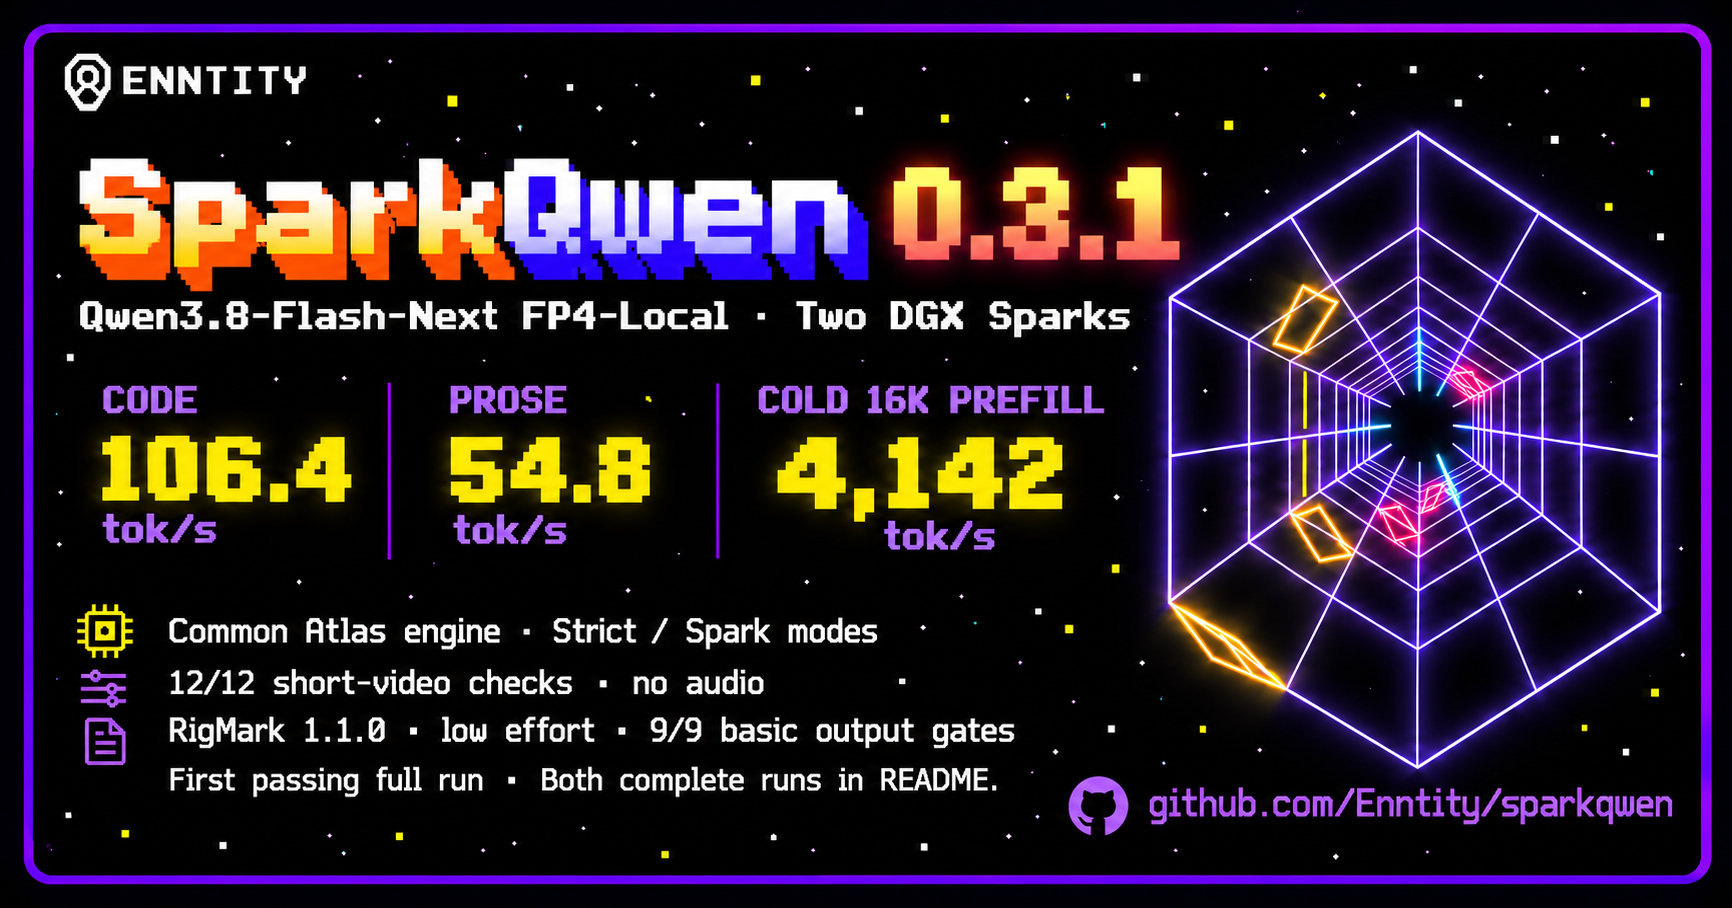
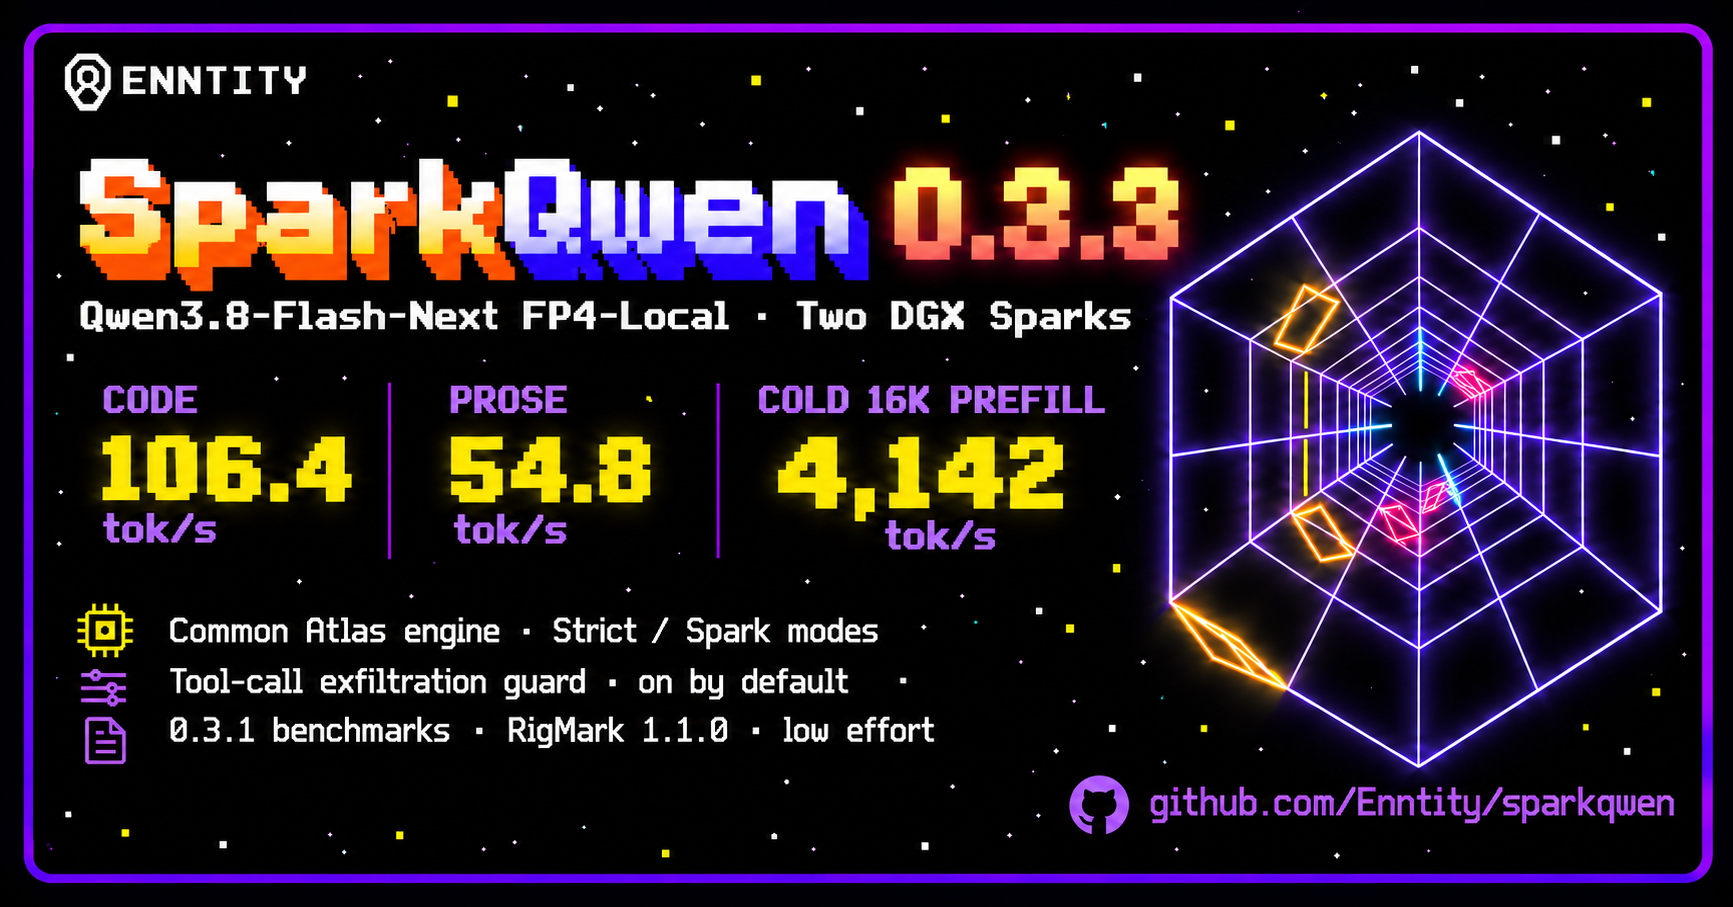
docs: refresh 0.3.3 release cards with tool-call guard (#29)

diff --git a/docs/assets/PROMPTS.md b/docs/assets/PROMPTS.md
@@ -1,12 +1,13 @@
 <!-- SPDX-License-Identifier: AGPL-3.0-only -->
 # Card prompts
 
-Generated with the built-in image tool; outputs were visually checked.
+Updated for 0.3.3 with the built-in image tool on 2026-10-26. Each existing
+0.3.1 card was supplied as its own edit target. Outputs were visually checked.
 
 ## Banner
 
-Use case: text-localization. Edit target: the supplied SparkQwen release banner. Update it for SparkQwen 0.3.1 with newly measured benchmark figures, preserving the 3:1 wide composition, arcade pixel lettering, ENNTITY logo, purple frame, black starfield, wireframe tunnel on right, orange Spark/purple Qwen title colors, and three unboxed metric columns. Use crisp legible typography at 2172x724 or equivalent 3:1 resolution. Change the title to "SparkQwen 0.3.1". Keep subtitle "Qwen3.8-Flash-Next FP4-Local · Two DGX Sparks". Exact metric columns: "CODE" / "106.4" / "tok/s"; "PROSE" / "54.8" / "tok/s"; "COLD 16K PREFILL" / "4,142" / "tok/s". Replace all bottom supporting copy with these exact lines, fitting clearly without overlap: "Common Atlas engine · Strict / Spark modes"; "12/12 short-video checks · no audio"; "RigMark 1.1.0 · low effort · 9/9 basic output gates"; small footer "First passing full run · Both complete runs in README". Keep right-side URL "github.com/Enntity/sparkqwen". Remove old historical percentage/speedup claims and all old version/benchmark numbers. No extra text or metric boxes.
+Use case: text-localization. Image 1 is the edit target. Preserve its existing purple arcade border, black starfield, ENNTITY logo, pixel typography, orange Spark/purple Qwen lettering, neon wireframe tunnel on the right, three unboxed metric columns, palette and layout. Make only these text edits: change title to "SparkQwen 0.3.3"; replace "12/12 short-video checks · no audio" with exactly "Tool-call exfiltration guard · on by default"; replace the RigMark line with exactly "0.3.1 benchmarks · RigMark 1.1.0 · low effort"; completely remove the entire footer line "First passing full run · Both complete runs in README." and leave its space empty. Keep subtitle exactly "Qwen3.8-Flash-Next FP4-Local · Two DGX Sparks", metric columns CODE / 106.4 / tok/s, PROSE / 54.8 / tok/s, COLD 16K PREFILL / 4,142 / tok/s; supporting line "Common Atlas engine · Strict / Spark modes"; URL "github.com/Enntity/sparkqwen". Keep all copy crisp and legible, no new badges, boxes, decorative objects or extra text. Fewer lines and breathing room, never more crowded. Preserve the existing row icons. All text must be verbatim. Output the wide README hero at the original approximately 3:1 aspect ratio, 2172x724 or equivalent.
 
 ## Social preview
 
-Use case: text-localization. Adapt this approved SparkQwen 0.3.1 banner into a matching GitHub social preview card with aspect ratio 1.91:1, approximately 1536x804. Preserve the exact purple/black arcade visual identity, ENNTITY logo, pixel title and wireframe tunnel. Reflow the layout to fit the less-wide card, keep generous safe margins and every line legible. No cropping any text. Exact copy: "SparkQwen 0.3.1"; "Qwen3.8-Flash-Next FP4-Local · Two DGX Sparks"; three prominent unboxed columns "CODE" / "106.4" / "tok/s", "PROSE" / "54.8" / "tok/s", "COLD 16K PREFILL" / "4,142" / "tok/s". Supporting lines: "Common Atlas engine · Strict / Spark modes"; "12/12 short-video checks · no audio"; "RigMark 1.1.0 · low effort · 9/9 basic output gates"; "First passing full run · Both complete runs in README"; "github.com/Enntity/sparkqwen". Preserve all exact benchmark values and version. No extra claims or old numbers.
+Use case: text-localization. Image 1 is the edit target. Preserve its existing purple arcade border, black starfield, ENNTITY logo, pixel typography, orange Spark/purple Qwen lettering, neon wireframe tunnel on the right, three unboxed metric columns, palette and layout. Make only these text edits: change title to "SparkQwen 0.3.3"; replace "12/12 short-video checks · no audio" with exactly "Tool-call exfiltration guard · on by default"; replace the RigMark line with exactly "0.3.1 benchmarks · RigMark 1.1.0 · low effort"; completely remove the entire footer line "First passing full run · Both complete runs in README." and leave its space empty. Keep subtitle exactly "Qwen3.8-Flash-Next FP4-Local · Two DGX Sparks", metric columns CODE / 106.4 / tok/s, PROSE / 54.8 / tok/s, COLD 16K PREFILL / 4,142 / tok/s; supporting line "Common Atlas engine · Strict / Spark modes"; URL "github.com/Enntity/sparkqwen". Keep all copy crisp and legible, no new badges, boxes, decorative objects or extra text. Fewer lines and breathing room, never more crowded. Preserve the existing row icons. All text must be verbatim. Output the social preview at the original approximately 1.91:1 aspect ratio, 1728x904 or equivalent. Retain generous safe margins.

diff --git a/docs/assets/README.md b/docs/assets/README.md
@@ -1,21 +1,28 @@
 <!-- SPDX-License-Identifier: AGPL-3.0-only -->
-# SparkQwen 0.3.1 cards
+# SparkQwen 0.3.3 cards
 
 `banner.png` is the README hero. `social-preview.png` is the matching social
 card; `social-preview.jpg` is its same-dimension JPEG export, below 1 MB.
-The built-in image generation tool updated both cards on 2026-10-24.
+The built-in image generation tool updated both cards on 2026-10-26.
 [Exact prompts](PROMPTS.md) preserve their text and layout instructions.
 
-The three prominent figures are the new 0.3.1 medians: code **106.4 tok/s**,
-prose **54.8 tok/s**, cold 16K prefill **4,142 tok/s**. They use the first
-passing complete run of two scheduled runs, with three repetitions per decode
-workload and ten cold/replay pairs. Both complete runs and all repetitions
-are in the [qualification report](../../results/2026-10-24-common-engine/RESULT.md).
+The guard line replaces the short-video line. The old “First passing full
+run” footer is removed to leave more space. “Tool-call exfiltration guard ·
+on by default” describes the enabled feature; it is not a guarantee against
+all exfiltration. See [Tool guard](../TOOL-GUARD.md) for the recognized patterns,
+configuration and limits.
+
+The three prominent figures remain historical **0.3.1** measurements: code
+**106.4 tok/s**, prose **54.8 tok/s**, cold 16K prefill **4,142 tok/s**.
+The cards label their benchmark version explicitly; these are not new 0.3.3
+measurements. They use the first passing complete run of two scheduled runs,
+with three repetitions per decode workload and ten cold/replay pairs.
+Both complete runs and all repetitions are in the
+[qualification report](../../results/2026-10-24-common-engine/RESULT.md).
 
 Both runs pass 9/9 basic output gates; these check completion and shape,
-not semantic code quality. The short-video claim is 12/12 controlled cases,
-with no audio. The README reports the XML formatting failures, paging,
-capacity evidence and limits that the small card cannot enumerate.
+not semantic code quality. The README reports the XML formatting failures,
+paging, capacity evidence and limits that the small card cannot enumerate.
 
 The image generation edit preserved the purple arcade frame, unboxed metric
 columns and wireframe illustration. The social image reflows the same copy.

diff --git a/README.md b/README.md
@@ -1,6 +1,6 @@
 <!-- SPDX-License-Identifier: AGPL-3.0-only -->
 <p align="center">
-  <img src="docs/assets/banner.png" alt="Historical SparkQwen 0.3.1 measurements: code 106.4 tok/s, prose 54.8 tok/s, cold 16K prefill 4,142 tok/s; common Atlas engine" width="100%">
+  <img src="docs/assets/banner.png" alt="SparkQwen 0.3.3 with tool-call exfiltration guard on by default; historical 0.3.1 measurements: code 106.4 tok/s, prose 54.8 tok/s, cold 16K prefill 4,142 tok/s; common Atlas engine" width="100%">
 </p>
 
 # SparkQwen
